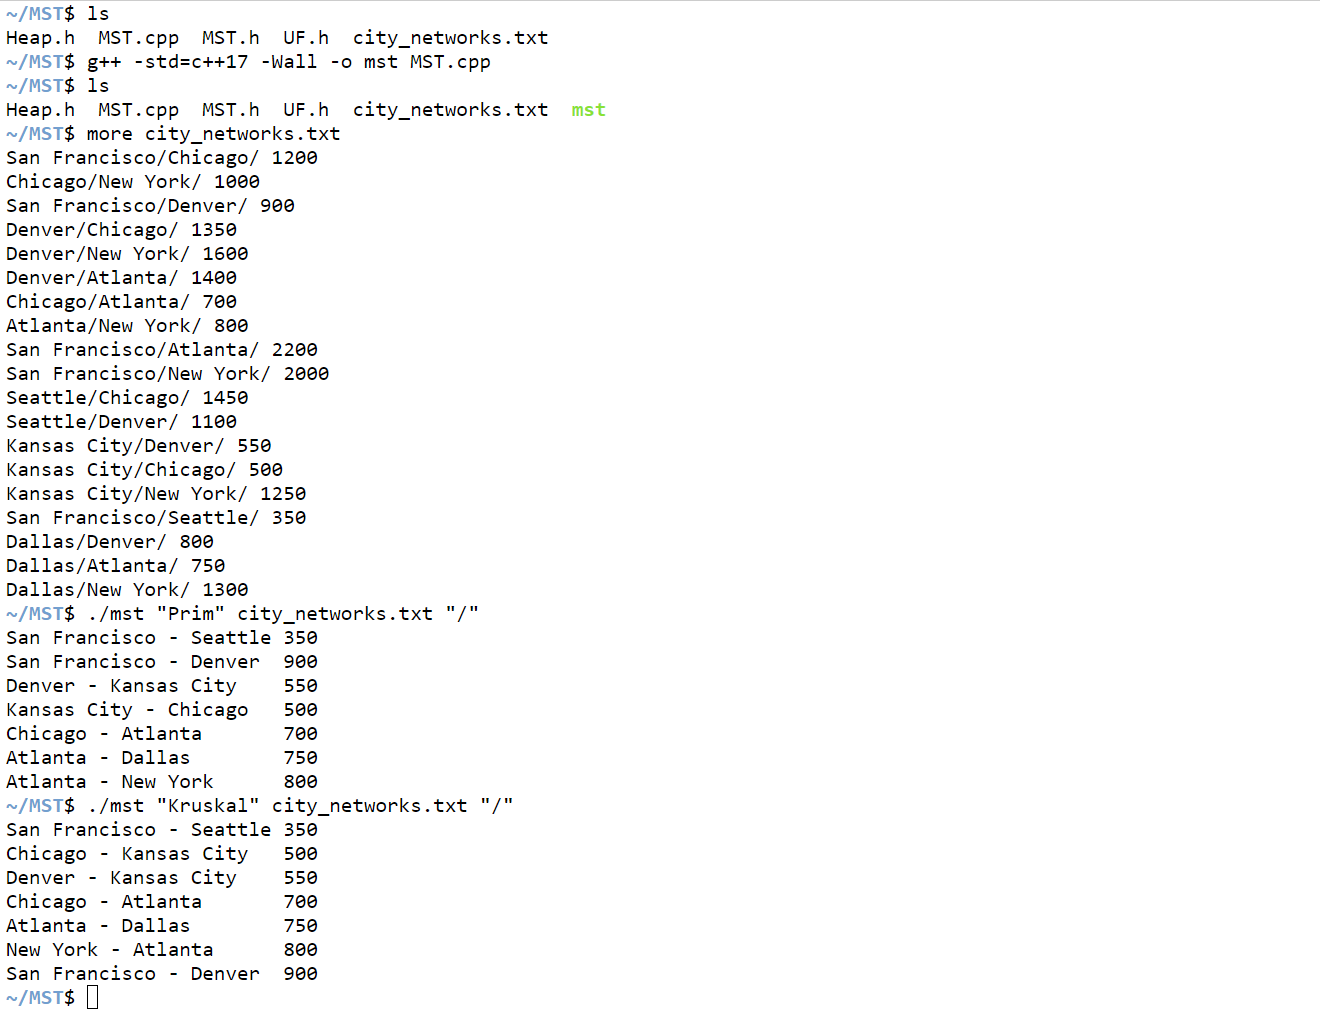
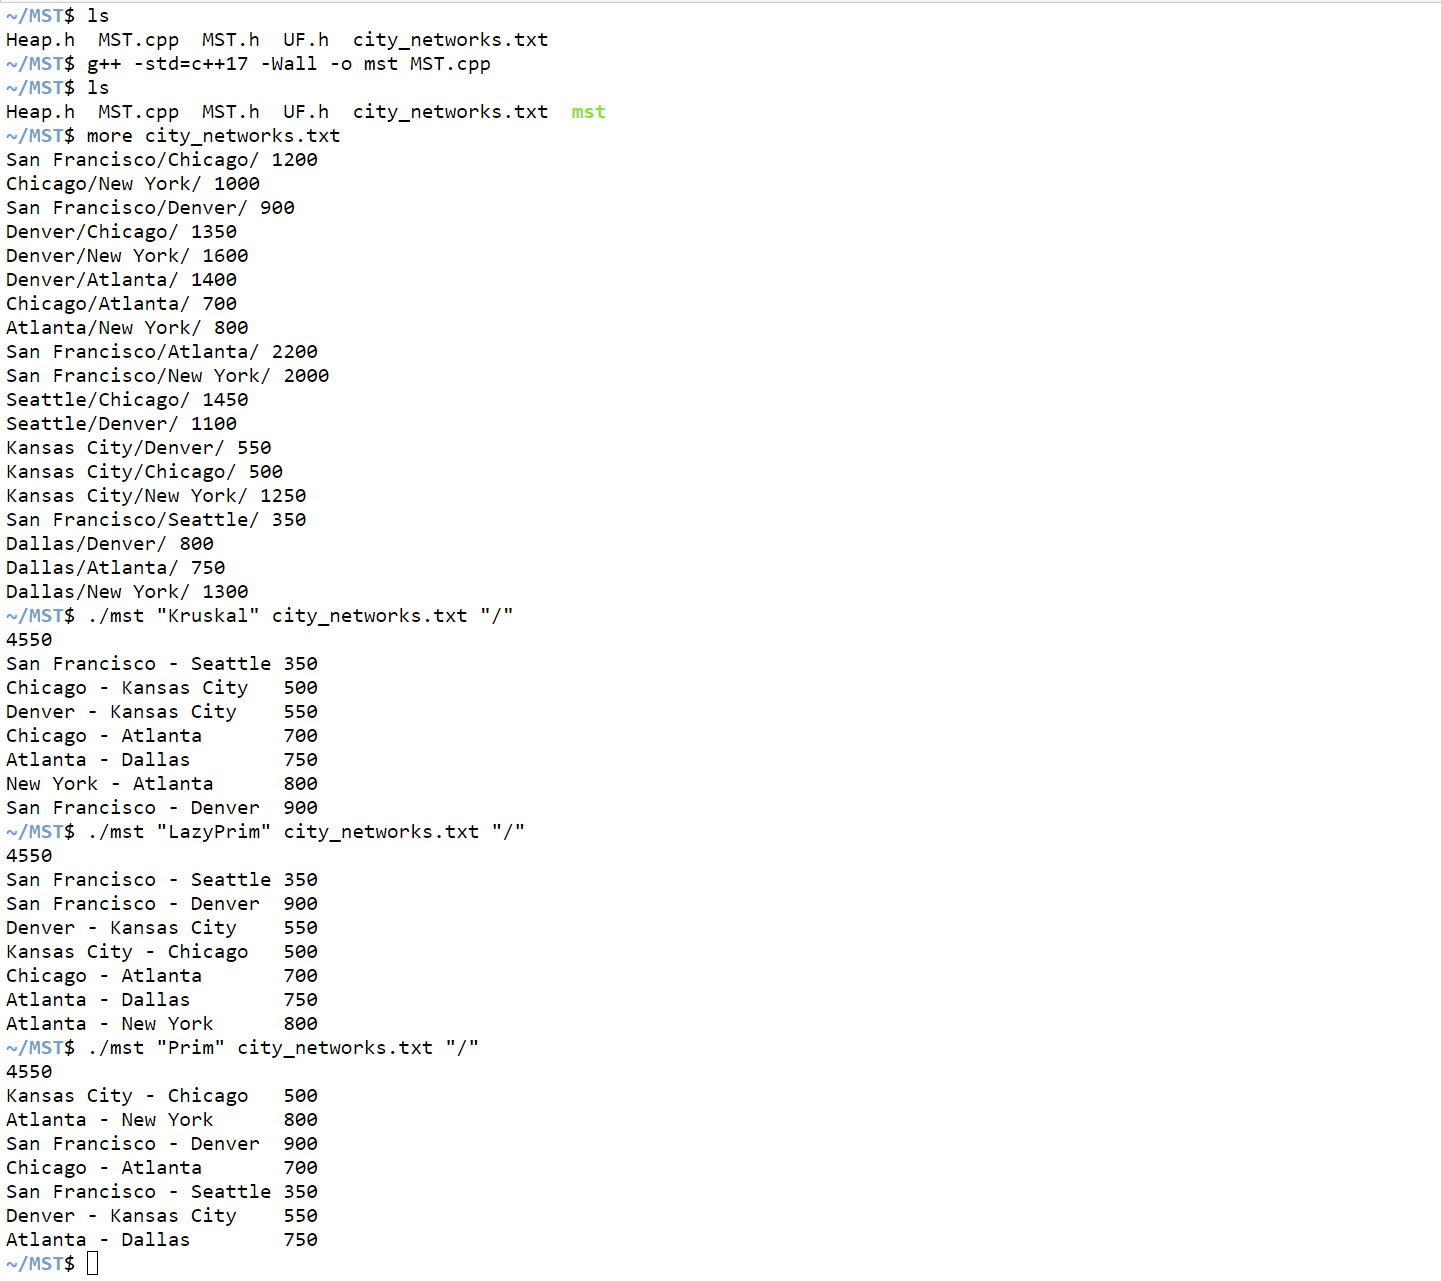
Add optimized Prim's algo

Changed region(s): [[0.0, 0.0, 0.4348, 0.9932], [0.4348, 0.0931, 0.4659, 0.1242]]

diff --git a/Graph/MST/MST.h b/Graph/MST/MST.h
@@ -1,7 +1,7 @@
 #include "../Graph.h"
 #include "Heap.h"
 #include "UF.h"
-#include <tuple>
+#include "../IndexPQ.h"
 #include <vector>
 
 struct MST_Edge : myGraph::Edge {
@@ -13,11 +13,11 @@ struct MST_Edge : myGraph::Edge {
 	size_t _source;
 };
 
-
+// O(|E|log|E|) 
 template<typename T>
-std::vector<std::tuple<T, T, double>> KruskalMST(const myGraph::Graph<T>& G) {
+double KruskalMST(const myGraph::Graph<T>& G, std::vector<MST_Edge>& mst) {
 	myHeap::Heap<MST_Edge, std::greater<MST_Edge>> pq{}; // MinHeap
-	std::vector<MST_Edge> mst{};
+	double count{ 0.0 };
 	UF uf(G.vertex_size());
 	// add all edges to heap
 	for (size_t i = 0; i < G.vertex_size(); ++i) {
@@ -31,40 +31,27 @@ std::vector<std::tuple<T, T, double>> KruskalMST(const myGraph::Graph<T>& G) {
 		if (uf.connected(v, w)) continue;
 		uf.Union(v, w);
 		mst.emplace_back(e);
+		count += e._cost;
 	}
-
-	// convert indices to data
-	std::vector<std::tuple<T, T, double>> tree;
-	for (size_t i = 0; i < mst.size(); ++i) {
-		tree.emplace_back(std::make_tuple(G.vertex(mst[i]._source),
-			G.vertex(mst[i]._dest), mst[i]._cost));
-	}
-	return tree;
+	return count;
 }
 
-
+// O(|E|log|E|) 
 template<typename T>
-std::vector<std::tuple<T, T, double>> PrimMST(const myGraph::Graph<T>& G) {
+double LazyPrimMST(const myGraph::Graph<T>& G, std::vector<MST_Edge>& mst) {
 	myHeap::Heap<MST_Edge, std::greater<MST_Edge>> pq{}; // MinHeap
-	std::vector<MST_Edge> mst{};
-	std::vector<bool> marked(G.vertex_size(), false); // mst vertices, in or not
+	std::vector<bool> marked(G.vertex_size(), false); // vertices, on mst tree or not on
+	double count{ 0.0 };
 	add_edges_from(0, G, pq, marked);
 	while (!pq.empty()) {
 		auto e{ pq.top() }; pq.pop();
 		size_t v = e._source, w = e._dest;
 		if (marked[v] && marked[w]) continue; // already added these 2 vertices to mst tree
-		mst.emplace_back(e);
+		mst.emplace_back(e); count += e._cost;
 		if (!marked[v])  add_edges_from(v, G, pq, marked);
 		if (!marked[w])  add_edges_from(w, G, pq, marked);
 	}
-
-	// convert indices to data
-	std::vector<std::tuple<T, T, double>> tree;
-	for (size_t i = 0; i < mst.size(); ++i) {
-		tree.emplace_back(std::make_tuple(G.vertex(mst[i]._source),
-			G.vertex(mst[i]._dest), mst[i]._cost));
-	}
-	return tree;
+	return count;
 }
 
 template<typename T>
@@ -75,4 +62,39 @@ void add_edges_from(size_t source, const myGraph::Graph<T>& G,
 	for (const auto& e : G.adj(source))
 		if (!marked[e._dest])
 			pq.push(MST_Edge(source, e));
+}
+
+// O(|E|log|V|)
+template<typename T>
+double PrimMST(const myGraph::Graph<T>& G, std::vector<MST_Edge>& mst) {
+	myIndexPQ::IndexPQ<double, std::greater<double>> pq(G.vertex_size()); // IndexMinPQ
+	std::vector<bool> marked(G.vertex_size(), false); // vertices, on mst tree or not on	
+	std::vector<double> dist(G.vertex_size(), DBL_MAX);
+	std::vector<MST_Edge> prev(G.vertex_size(), MST_Edge(UINT_MAX));
+	double count{ 0.0 };
+	dist[0] = 0.0;
+	pq.insert(0, 0.0);
+	while (!pq.empty()) {
+		size_t u = pq.top_index(); count += pq.top(); pq.pop();
+		marked[u] = true;
+		for (const auto& e : G.adj(u)) {
+			size_t v = e._dest;
+			if (marked[v]) continue;
+			if (dist[v] > e._cost) {
+				dist[v] = e._cost;
+				prev[v] = MST_Edge(u, e);  // new best connection from mst tree to v
+				if (pq.contains(v)) pq.change(v, dist[v]);
+				else				pq.insert(v, dist[v]);
+			}
+		}
+	}
+	// if it's a connected component:
+	//mst.assign(prev.begin() + 1, prev.end());
+	for (const auto& e : prev) {
+		if (e._source == UINT_MAX) continue; // skip 0 and vertices not in the connected component
+		mst.emplace_back(e);
+	}
+	// Note that mst is stored in index order, not showing
+	// the edge-adding progress, however, LazyPrimMST does.
+	return count;
 }

diff --git a/Graph/MST/MST.cpp b/Graph/MST/MST.cpp
@@ -5,6 +5,7 @@
 #include <iostream>
 
 using namespace std;
+using namespace myGraph;
 
 char sp; // separator
 
@@ -36,11 +37,11 @@ ifstream& operator>>(ifstream& ifs, City& c) {
 }
 
 template<typename T>
-void print_MST(const T& mst) {
+void print_MST(Graph<T>& G, std::vector<MST_Edge>& mst) {
 	for (size_t i = 0; i < mst.size(); ++i) {
-		cout << std::get<0>(mst[i]) << " - "
-			<< std::get<1>(mst[i]) << '\t' <<
-			std::get<2>(mst[i]) << '\n';
+		cout << G.vertex(mst[i]._source) << " - "
+			<< G.vertex(mst[i]._dest) << '\t'
+			<< mst[i]._cost << '\n';
 	}
 }
 
@@ -56,20 +57,20 @@ namespace std {
 // Linux CLI example: ./mst "Kruskal" city_networks.txt "/"
 int main(int argc, const char* argv[])
 {
-	using namespace myGraph;
 	if (argc < 4) { cerr << "Too few arguments" << endl; return 1; }
-	string method{ argv[1] };
-	if (method != "Prim" && method != "Kruskal") {
-		cerr << "Unknown MST method" << endl; return 2;
-	}
+	string method{ argv[1] };	
 	string filename{ argv[2] };
 	sp = argv[3][0];
 	try {
 		Graph<City> G{ filename };
-		vector<std::tuple<City, City, double>> mst;
-		if (method == "Prim")	mst = PrimMST(G);
-		else mst = KruskalMST(G);
-		print_MST(mst);
+		vector<MST_Edge> mst;
+		double count{};
+		if (method == "LazyPrim")	count = LazyPrimMST(G, mst);
+		else if (method == "Prim")	count = PrimMST(G, mst);
+		else if (method == "Kruskal")  count = KruskalMST(G, mst);
+		else throw invalid_argument("unknown MST method");
+		cout << count << '\n';
+		print_MST(G, mst);
 	}
 	catch (const exception& e) {
 		cout << e.what() << endl;

diff --git a/Graph/Graph.h b/Graph/Graph.h
@@ -1,5 +1,7 @@
 #ifndef GRAPH_H
 #define GRAPH_H
+#include "IndexPQ.h"
+#include <cfloat> // DBL_MAX for Dijkstra's algo
 #include <vector>
 #include <unordered_map>
 #include <queue>
@@ -245,6 +247,27 @@ public:
 		// where ipath is a vector<size_t> replaced path before
 	}
 
+	void Dijkstra(size_t s, std::vector<double>& dist, std::vector<size_t>& prev)
+	{
+		myIndexPQ::IndexPQ<double, std::greater<double>> pq(vertex_size()); // IndexMinPQ
+		for (size_t v = 0; v != vertex_size(); ++v)
+			dist[v] = DBL_MAX;
+		dist[s] = 0.0;
+
+		pq.insert(s, 0.0);
+		while (!pq.empty()) {
+			size_t u = pq.top_index(); pq.pop();
+			for (const auto& e : _adj[u]) {
+				size_t v = e._dest;
+				if (dist[v] > dist[u] + e._cost) {
+					dist[v] = dist[u] + e._cost;
+					prev[v] = u;
+					if (pq.contains(v)) pq.change(v, dist[v]);
+					else				pq.insert(v, dist[v]);
+				}
+			}
+		}
+	}
 	void connected_component(const std::string& mode = "DFS") {
 		// A good way to reduce the times of tell if visited is to get a vertex
 		// from each connected component of the graph, the overhead of which is,

diff --git a/Graph/Graph_test1.cpp b/Graph/Graph_test1.cpp
@@ -46,6 +46,17 @@ int main()
 			else cout << " --" << e._cost << "--> " << G.vertex(e._dest);
 		cout << "\n";
 
+		vector<Edge> path_djs{};
+		vector<double> dist(G.vertex_size()); vector<size_t> prev(G.vertex_size());
+		G.Dijkstra(G.index("LAS"), dist, prev);
+		G.path(G.index("LAS"), G.index("MCO"), path_djs, prev);
+		cout << "\nShortest paths from LAS to MCO via Dijkstra's algo can be:\n"
+			<< dist[G.index("MCO")] << ": ";
+		for (const auto& e : path_djs)
+			if (e._dest == G.index("LAS")) cout << G.vertex(e._dest);
+			else cout << " --" << e._cost << "--> " << G.vertex(e._dest);
+		cout << "\n";
+
 		G.remove_edge(G.find_vertex("JFK"), G.find_vertex("MCO"));
 		G.remove_vertex(G.find_vertex("PHX"));
 		G.remove_vertex(G.find_vertex("HOU"));
@@ -82,7 +93,7 @@ int main()
 	catch (const GraphIterOutOfRange& e) {
 		cout << e.what() << endl;
 	}
-	catch (const runtime_error& e) {
+	catch (const exception& e) {
 		cout << e.what() << endl;
 	}
 	catch (...) {

diff --git a/Graph/IndexPQ.h b/Graph/IndexPQ.h
@@ -24,6 +24,8 @@ public:
 	size_t size() const noexcept { return _N; }
 	bool contains(size_t k) const { return _qp.at(k) != UINT_MAX; }
 
+	T key(size_t k) { return _keys.at(k); }
+
 	const T& top() const { return _keys[_pq[0]]; }
 	size_t top_index() const { return _pq[0]; }
 

diff --git a/Heap/IndexPQ.h b/Heap/IndexPQ.h
@@ -24,6 +24,8 @@ public:
 	size_t size() const noexcept { return _N; }
 	bool contains(size_t k) const { return _qp.at(k) != UINT_MAX; }
 
+	T key(size_t k) { return _keys.at(k); }
+
 	const T& top() const { return _keys[_pq[0]]; }
 	size_t top_index() const { return _pq[0]; }
 
